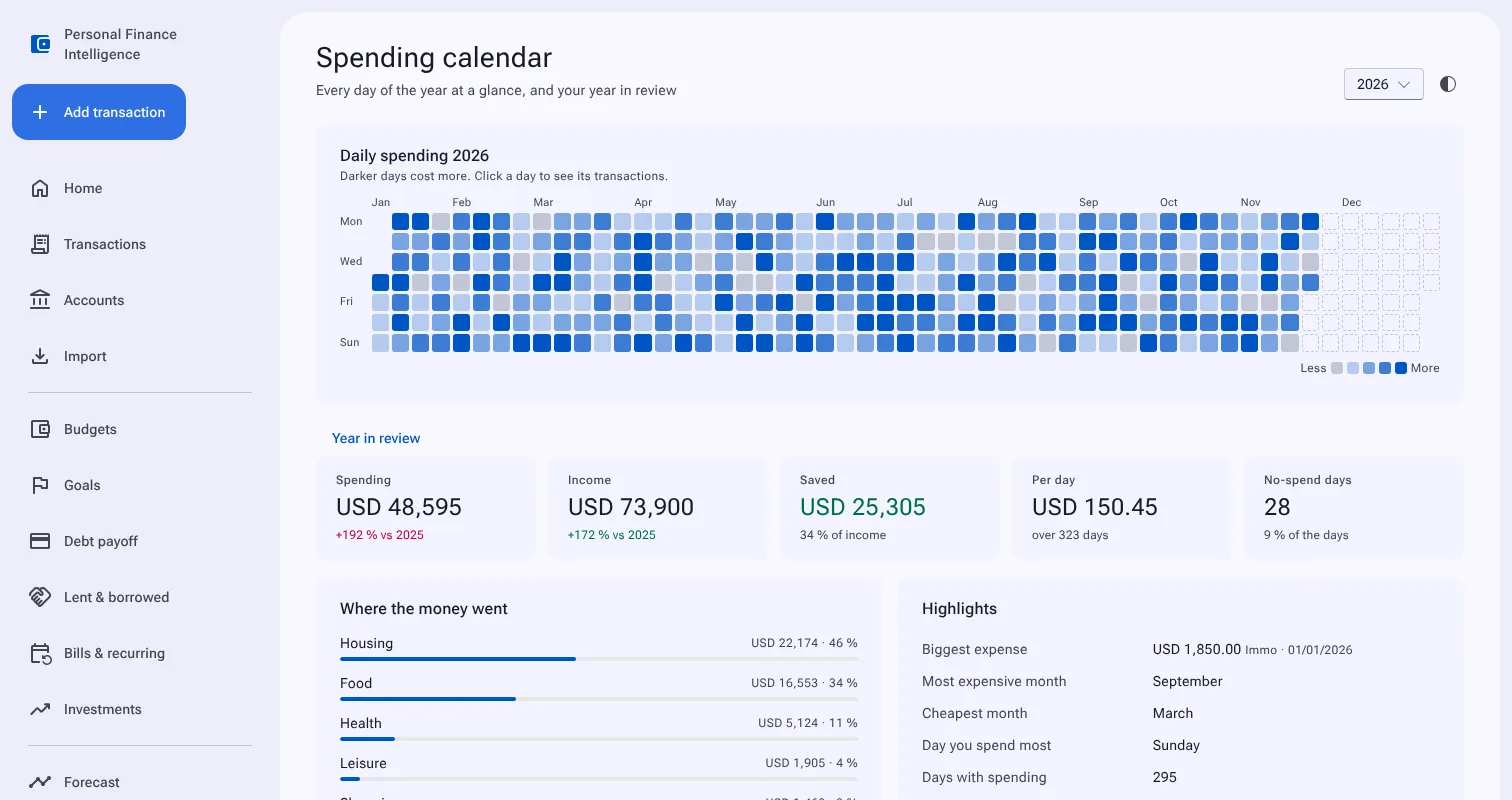
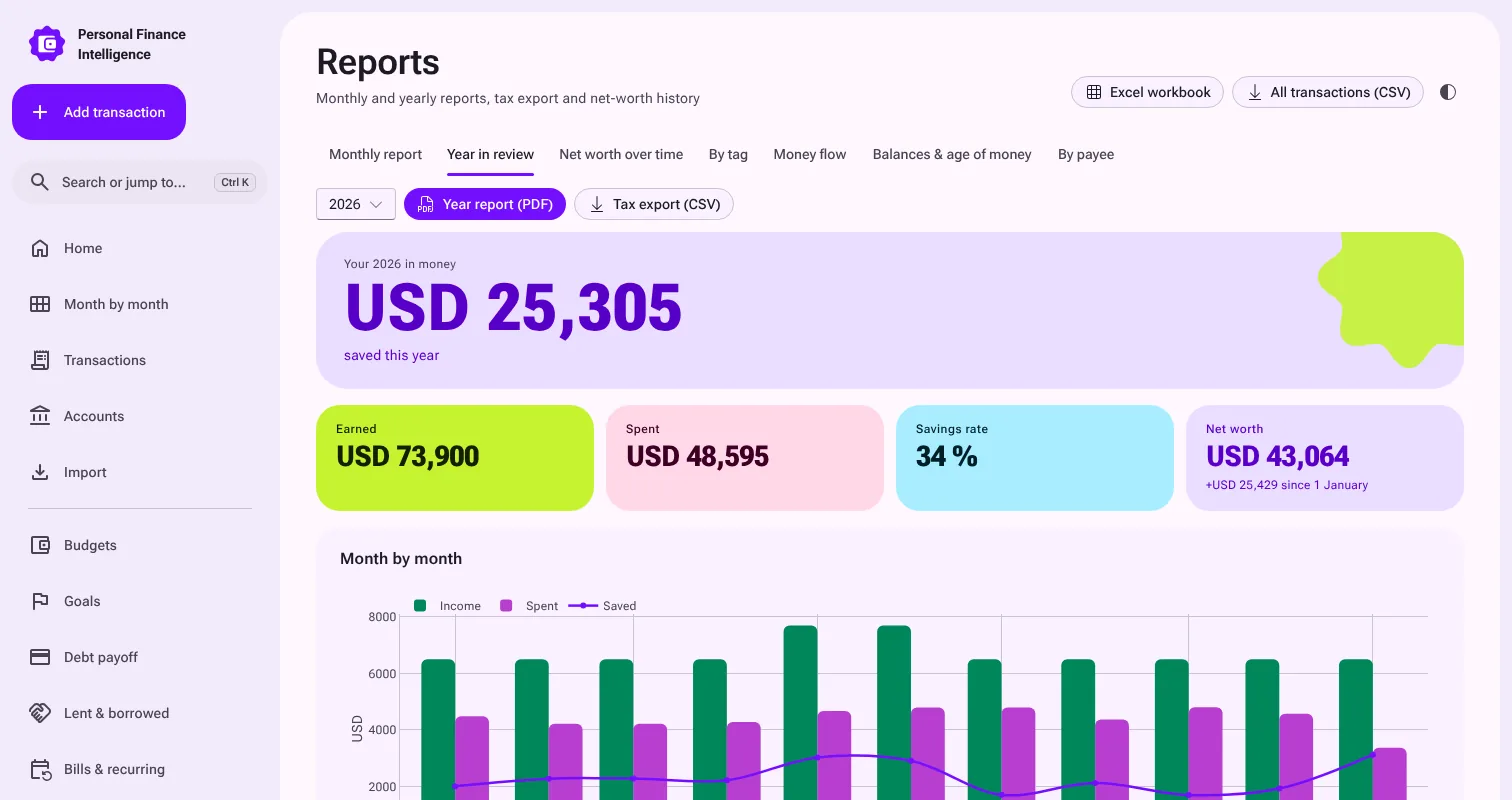
chore: version 1.0.0, Store notes and screenshots (en, fr, ar), privacy and design docs
Claude-Session: https://claude.ai/code/session_01MnZqb9jp3ucygUY9NmUqQ9

diff --git a/docs/index.html b/docs/index.html
@@ -25,7 +25,7 @@
   "description": "Offline budget planner and expense tracker for Windows with an Android app: bank statement import, envelope budgets, debt payoff planner, investments and cash-flow forecast. No account and no PFI server; optional encrypted sync through your own OneDrive or Google Drive.",
   "url": "https://mrblizo.github.io/personal-finance-intelligence/",
   "downloadUrl": "https://apps.microsoft.com/detail/9MZKW4H9F0J5",
-  "softwareVersion": "0.9.0",
+  "softwareVersion": "1.0.0",
   "license": "https://polyformproject.org/licenses/strict/1.0.0",
   "offers": { "@type": "Offer", "price": "0", "priceCurrency": "USD" },
   "author": { "@type": "Person", "name": "Ibrahim (MrBlizo)", "url": "https://github.com/MrBlizo" },
@@ -69,7 +69,7 @@
 <section class="hero-ms">
   <div class="wrap hero-grid">
     <div class="hero-text">
-      <p class="eyebrow">Personal Finance Intelligence 0.9.0</p>
+      <p class="eyebrow">Personal Finance Intelligence 1.0.0</p>
       <h1>Download PFI</h1>
       <p class="lead">The free budget app for Windows and Android. Plan every dollar, import your bank
         statements and see where your money goes, without an account and without a cloud server.</p>
@@ -82,7 +82,7 @@
     </div>
     <div class="hero-art">
       <img src="img/m3-home.webp" width="1512" height="800"
-        alt="PFI home: net worth with quick actions, income, expenses and charts">
+        alt="PFI home: net worth, income, expenses and charts in the violet Expressive look">
     </div>
   </div>
 </section>
@@ -100,7 +100,7 @@
         <h3>Budget with envelopes</h3><p>Assign your money to categories, see what is overspent or underfunded at a glance and fund your targets in one click.</p></article>
       <article class="fcard"><img src="img/m3-f-transactions.webp" width="1000" height="625" loading="lazy" alt="Transactions list with categories">
         <h3>Import any bank statement</h3><p>CSV, OFX/QFX, QIF and CAMT.053. Chase, Bank of America, Wells Fargo, Citi, Capital One, Amex and more are recognised automatically, and PFI learns your categories.</p></article>
-      <article class="fcard"><img src="img/m3-f-forecast.webp" width="1000" height="625" loading="lazy" alt="Cash-flow forecast with probability ranges">
+      <article class="fcard"><img src="img/m3-f-forecast.webp" width="1000" height="625" loading="lazy" alt="What if planner: a car purchase with and without, and a verdict">
         <h3>Plan ahead</h3><p>Cash-flow forecast from your own history, a debt payoff planner, investments with returns, and bills that never surprise you.</p></article>
     </div>
     <div class="new10" aria-label="New in PFI 1.0">
@@ -145,7 +145,7 @@
         <div class="qr-row">
           <img class="qr" src="img/qr-android.svg" width="120" height="120" alt="QR code to the PFI download page">
           <div><a class="btn primary" href="https://github.com/MrBlizo/personal-finance-intelligence/releases/latest">Download the APK</a>
-            <p class="alt">Scan with your phone's camera, then open <code>PFI-0.9.0.apk</code>.</p></div>
+            <p class="alt">Scan with your phone's camera, then open <code>PFI-1.0.0.apk</code>.</p></div>
         </div>
         <p class="alt">Automatic updates: add <code>github.com/MrBlizo/personal-finance-intelligence</code> to
           <a href="https://github.com/ImranR98/Obtainium">Obtainium</a>. <a href="guide.html#obtainium">How</a></p>
@@ -204,9 +204,9 @@
   <div class="wrap">
     <h2 class="center">See it in action</h2>
     <div class="gallery">
-      <figure><img src="img/m3-dark-mode.webp" width="1512" height="800" loading="lazy" alt="Budget in dark mode with a category selected"><figcaption>Dark mode</figcaption></figure>
+      <figure><img src="img/m3-dark-mode.webp" width="1512" height="800" loading="lazy" alt="Home in the neon dark mode"><figcaption>Neon dark mode</figcaption></figure>
       <figure><img src="img/m3-debt-payoff.webp" width="1512" height="800" loading="lazy" alt="Debt payoff planner comparing strategies"><figcaption>Debt payoff planner</figcaption></figure>
-      <figure><img src="img/m3-calendar.webp" width="1512" height="800" loading="lazy" alt="Spending calendar heatmap and year in review"><figcaption>Spending calendar and year in review</figcaption></figure>
+      <figure><img src="img/m3-calendar.webp" width="1512" height="800" loading="lazy" alt="Year in review with totals, months and a tax export"><figcaption>Year in review and tax export</figcaption></figure>
       <figure><img src="img/m3-investments.webp" width="1512" height="800" loading="lazy" alt="Investments with returns"><figcaption>Investments</figcaption></figure>
     </div>
   </div>

diff --git a/docs/privacy/index.html b/docs/privacy/index.html
@@ -30,7 +30,7 @@
   <article>
     <p class="crumbs"><a href="../">Home</a> › Privacy</p>
 <h1>Privacy policy</h1>
-<p><em>Personal Finance Intelligence (PFI) · last updated 17 November 2026</em></p>
+<p><em>Personal Finance Intelligence (PFI) · last updated 22 November 2026</em></p>
 <p>PFI is a desktop app (with an optional Android app) that keeps your
 financial data on your own devices.</p>
 <h2>What PFI stores</h2>
@@ -87,8 +87,17 @@ Disconnecting in Settings deletes the saved access on the PC. The phone app
 does not contact banks.</p>
 <h2>The Android app</h2>
 <p>The phone app stores your data in a private database on the phone. It uses
-the network only for the sync described above. It has no account, no
-analytics, no advertising and no telemetry.</p>
+the network only for the sync described above and for the update check
+below. It has no account, no analytics, no advertising and no telemetry.</p>
+<ul>
+<li><strong>Receipt scanning</strong> uses Google ML Kit's on-device text recognition. The
+  photo is read on the phone and is not kept or uploaded; the recognition
+  model is bundled with the app.</li>
+<li><strong>Statement import</strong> reads the CSV file you choose on the phone.</li>
+<li><strong>Notifications</strong> (bill reminders, over-budget alerts) are computed and shown
+  on the phone. Android asks for your permission first; you can switch both
+  off in Settings.</li>
+</ul>
 <h2>Network requests</h2>
 <p>PFI makes only these requests, and only for the purposes described:</p>
 <table>
@@ -125,6 +134,12 @@ analytics, no advertising and no telemetry.</p>
 <td>the coin id (e.g. <code>bitcoin</code>) and a currency code</td>
 <td>once a day for holdings with CoinGecko as price source, or on request</td>
 </tr>
+<tr>
+<td>Update check</td>
+<td>api.github.com (the latest PFI release)</td>
+<td>nothing beyond the request itself; only the version number is read</td>
+<td>once a day on the PC (not in the Microsoft Store version, which the Store updates) and on the phone, unless switched off in Settings</td>
+</tr>
 </tbody>
 </table>
 <p>These services receive your IP address as part of any internet request;
@@ -143,6 +158,9 @@ in your local database only and are no longer sent anywhere.)</p>
   the window was closed or a rating was submitted; your answer is stored on
   this PC.</li>
 <li><strong>Notifications</strong> (bill reminders): shown locally by Windows.</li>
+<li><strong>Receipt scanning</strong>: a receipt photo you drop on Quick add is read by
+  Windows' built-in offline text recognition (Windows.Media.Ocr). Nothing is
+  sent anywhere; the photo is stored with the transaction like any attachment.</li>
 </ul>
 <h2>Your control</h2>
 <p>You can export everything (Excel, CSV, backups), and you can delete all data

diff --git a/frontend/app/expressive.css b/frontend/app/expressive.css
@@ -458,7 +458,7 @@ ul.list > .list-row { display: flex; justify-content: space-between; align-items
   margin-bottom: 4px; text-align: start;
 }
 .nav-search:hover { background: var(--md-sys-color-surface-container-highest); }
-.nav-search .grow { flex: 1; }
+.nav-search .grow { flex: 1; min-width: 0; white-space: nowrap; overflow: hidden; text-overflow: ellipsis; }
 kbd {
   font: 600 11px/1 var(--font); padding: 3px 6px; border-radius: 6px; white-space: nowrap;
   background: var(--md-sys-color-surface-container-highest); color: var(--md-sys-color-on-surface-variant);

diff --git a/mobile/lib/config.dart b/mobile/lib/config.dart
@@ -16,4 +16,4 @@ const googleServerClientId = String.fromEnvironment('GOOGLE_SERVER_CLIENT_ID',
 
 const oauthScheme = 'io.github.mrblizo.pfi';
 const oauthRedirect = '$oauthScheme://auth';
-const appVersion = '0.9.0';
+const appVersion = '1.0.0';

diff --git a/backend/app/__init__.py b/backend/app/__init__.py
@@ -1,2 +1,2 @@
 """Personal Finance Intelligence backend."""
-__version__ = "0.9.0"
+__version__ = "1.0.0"

diff --git a/packaging/STORE-LISTING.md b/packaging/STORE-LISTING.md
@@ -39,31 +39,37 @@ account (Accounts › Add account) and a few transactions (Ctrl+N), or import
 any bank CSV file under Import. First start takes a few seconds while the
 private database is created."
 
-## What's new in 0.9.0 (paste into "What's new in this version")
+## What's new in 1.0.0 (paste into "What's new in this version")
 
 **English**
 
-Version 0.9.0
-• A new Material 3 design on PC, phone and website: one colour scheme, a navigation drawer with an Add transaction button, and a compact rail on narrow windows.
-• Any accent colour now recolours the whole app, not just the buttons.
-• Faster: net worth, envelopes, age of money and statement import open up to 18 times faster on large histories.
-• Clearer settings, budget filters and status colours, in light and dark mode and in Arabic.
+Version 1.0.0
+• New look: Material 3 Expressive in violet, with a neon dark mode.
+• Month by month: what you earned, spent, paid and saved each month.
+• Scan receipts: drop a photo on Quick add; amount, date and shop are read on your PC.
+• What if…? planner, financial independence calculator, year report PDF and tax export.
+• Move in from Cashew or Mint; Moroccan bank statements recognised.
+• Ctrl+K to jump anywhere, a setup assistant, Check my data and a review of sync conflicts.
 
 **Français**
 
-Version 0.9.0
-• Nouveau design Material 3 sur PC, téléphone et site web : une seule palette, un tiroir de navigation avec un bouton Ajouter une transaction, et une barre compacte sur les fenêtres étroites.
-• La couleur d'accent recolore maintenant toute l'application, pas seulement les boutons.
-• Plus rapide : valeur nette, enveloppes, âge de l'argent et import de relevés s'ouvrent jusqu'à 18 fois plus vite sur de longs historiques.
-• Paramètres, filtres de budget et couleurs d'état plus clairs, en mode clair et sombre et en arabe.
+Version 1.0.0
+• Nouveau look : Material 3 Expressive en violet, avec un mode sombre néon.
+• Mois par mois : ce que vous avez gagné, dépensé, payé et épargné chaque mois.
+• Scan de tickets : déposez une photo dans Ajout rapide ; montant, date et magasin sont lus sur votre PC.
+• Planificateur « Et si… ? », calcul de l'indépendance financière, rapport annuel PDF et export fiscal.
+• Import depuis Cashew ou Mint ; relevés des banques marocaines reconnus.
+• Ctrl+K pour aller partout, un assistant de démarrage, Vérifier mes données et la revue des conflits de synchro.
 
 **العربية**
 
-الإصدار 0.9.0
-• تصميم جديد بأسلوب Material 3 على الحاسوب والهاتف والموقع: نظام ألوان واحد، ودرج تنقّل مع زر إضافة معاملة، وشريط مدمج في النوافذ الضيقة.
-• لون التمييز يلوّن الآن التطبيق كله وليس الأزرار فقط.
-• أسرع: صافي الثروة والمغلفات وعمر المال واستيراد الكشوف تفتح أسرع بما يصل إلى 18 مرة مع السجلات الكبيرة.
-• إعدادات وفلاتر ميزانية وألوان حالة أوضح، في الوضعين الفاتح والداكن وبالعربية.
+الإصدار 1.0.0
+• مظهر جديد: Material 3 Expressive باللون البنفسجي مع وضع داكن نيون.
+• شهرًا بشهر: ما كسبته وأنفقته ودفعته وادّخرته كل شهر.
+• مسح الإيصالات: أسقط صورة في الإضافة السريعة فيُقرأ المبلغ والتاريخ والمتجر على حاسوبك.
+• مخطط «ماذا لو…؟» وحاسبة الاستقلال المالي وتقرير سنوي PDF وتصدير ضريبي.
+• الانتقال من Cashew أو Mint؛ والتعرّف على كشوف البنوك المغربية.
+• Ctrl+K للانتقال إلى أي مكان، ومساعد البدء، وفحص بياناتي، ومراجعة تعارضات المزامنة.
 
 ## 3. Store listing: English
 
@@ -187,4 +193,4 @@ placements, trésorerie, patrimoine, gestion d'argent
 1366×768 or larger, PNG. Use demo data (no real finances):
 Home, Transactions, Investments (Performance tab), Bills & recurring,
 Reports, Settings. Optional: one in Arabic and one in dark mode.
-The 0.9 (Material 3) set is in `packaging/store-screenshots-0.9/`.
+The 1.0 (Expressive) set is in `packaging/store-screenshots-1.0/{en,fr,ar}/`; upload each language to its own listing. The 0.9 set is in `packaging/store-screenshots-0.9/`.

diff --git a/README.md b/README.md
@@ -92,11 +92,25 @@ Shown with synthetic sample data (no real finances).
 - **Spending calendar:** a heatmap of every day's spending and a year in
   review (savings rate, no-spend days, biggest expense, top categories,
   change against the year before).
-- **Reports:** monthly PDF report, Excel workbook, CSV export, net-worth
-  history, money-flow (Sankey) diagram, balance history per account, age of
-  money and spending by payee.
-- **Import from YNAB:** reads a YNAB export (zip or CSV) with transfers,
-  splits and budget assignments, with a dry run first.
+- **Month by month (1.0):** what you earned, spent, paid (bills, card and
+  loan payments) and saved each month, compared with the month before, with
+  the spending pace and the biggest expenses. Also on the phone.
+- **Receipt scanning (1.0):** drop a photo on Quick add and Windows' offline
+  text recognition reads the total, date and shop; on the phone, ML Kit does
+  the same on the device. Nothing is uploaded.
+- **What if and financial independence (1.0):** try a purchase, a raise or a
+  bill change against the forecast and get a plain verdict; estimate when
+  your investments could pay for your spending.
+- **Reports:** monthly and yearly PDF reports, a tax export (CSV) by the
+  categories you mark, Excel workbook, CSV export, net-worth history,
+  money-flow (Sankey) diagram, balance history per account, age of money and
+  spending by payee.
+- **Import from YNAB, Cashew and Mint:** reads their exports with a dry run
+  first; YNAB also brings transfers, splits and budget assignments.
+- **Trust (1.0):** a first-run setup assistant, Check my data, a review of
+  items changed on two devices before they synced, a daily update check
+  (not in the Store version), and upgrade tests on databases from every
+  release since 0.4.
 - **Security & data:** optional app lock with Windows Hello; weekly automatic
   backups to a folder you choose (e.g. OneDrive), optionally encrypted with
   a password (AES-256); move to a new PC through sync.
@@ -104,9 +118,12 @@ Shown with synthetic sample data (no real finances).
   as the PC through a folder in your OneDrive, encrypted with your
   passphrase (no PFI server). See [mobile/README.md](mobile/README.md) and
   [design/sync-protocol.md](design/sync-protocol.md).
-- **Look:** light, dark or the same as Windows, switchable in every page
-  header; eleven accent colours; icons and colours per category; a Home page
-  whose cards you can reorder or hide.
+- **Look:** Material 3 Expressive in PFI violet, with a neon dark mode;
+  light, dark or the same as Windows, switchable in every page header;
+  eleven accent colours; icons and colours per category; a Home page whose
+  cards you can reorder or hide; Ctrl+K to jump to any page or action.
+- **Phone extras (1.0):** statement (CSV) import, bill reminders and
+  over-budget alerts, and an update check for the APK (or use Obtainium).
 
 ## Architecture
 
@@ -141,8 +158,8 @@ Double-click **`build.bat`**. It runs the backend tests, builds the screens,
 packages the backend, builds `PFI.exe`, smoke-tests the packaged app and
 creates:
 
-- `dist\PFI-Setup-0.9.0.exe`: installer for direct download;
-- `dist\PFI-0.9.0.0-x64.msix`: package for the Microsoft Store (fill in
+- `dist\PFI-Setup-1.0.0.exe`: installer for direct download;
+- `dist\PFI-1.0.0.0-x64.msix`: package for the Microsoft Store (fill in
   `packaging\store.json` with the identity from Partner Center first).
 
 Progress: `dist\build.log`; result: `dist\build-status.txt`. Options:

diff --git a/design/material-3.md b/design/material-3.md
@@ -1,11 +1,28 @@
 # Material 3 in PFI
 
 One Material 3 look for the Windows app, the phone app and the website.
+Since 1.0 it is the **Expressive** variant: violet, loud accents, heavy
+condensed numerals and shape masks in light mode, and a hand-tuned **Neon**
+synthwave scheme in dark mode.
 
 ## Tokens
 
-- **Seed:** `#2F6FE4` (PFI blue). **Scheme:** `SchemeFidelity`, standard
-  contrast, from `@material/material-color-utilities` 0.4.0.
+- **Seed:** `#8E5CF7` (PFI violet). **Light scheme:** `SchemeVibrant`,
+  standard contrast, from `@material/material-color-utilities` 0.4.0.
+  (Before 1.0: `#2F6FE4` with `SchemeFidelity`.)
+- **Dark scheme:** with the PFI violet seed, the hand-tuned `NEON` palette in
+  `scripts/m3/gen-tokens.mjs` (deep indigo surfaces, pink primary
+  `#FF5AD9`, violet secondary, cyan tertiary). The root gets `data-neon="1"`,
+  which turns on glows, the synthwave sun and the grid in
+  `frontend/app/expressive.css`. Other accents use `SchemeVibrant` dark. On
+  the phone, `buildTheme` uses `neonDarkScheme` and `context.neon`.
+- **Accents:** lime `#C6F432`, pink `#FF5AB4` and cyan `#24D3F2`, with
+  containers, deliberately not harmonized (the `AccentColors` extension on
+  the phone, `--md-sys-color-{lime,pink,cyan}-*` on the PC and the website).
+  Used for headline tiles: Earned (lime), Spent (pink), Savings rate (cyan),
+  Net (violet).
+- **Contrast audit:** the generator checks every text/background role pair
+  at 4.5:1 and stops with an error if one fails.
 - **Source of truth:** `design/m3-tokens.json`. Regenerate everything with:
 
   ```
@@ -21,13 +38,19 @@ One Material 3 look for the Windows app, the phone app and the website.
 - **Other accents:** a different accent chosen in Settings becomes a new
   seed. On the PC it is applied at run time by `frontend/lib/m3.ts`, which
   uses the same algorithm. On the phone it goes through
-  `ColorScheme.fromSeed(dynamicSchemeVariant: fidelity)`.
+  `ColorScheme.fromSeed(dynamicSchemeVariant: vibrant)`.
 - **Icons:** Material Symbols Rounded, subset to the glyphs listed in
   `frontend/components/icons.ts`. After adding an icon there, run
   `python scripts/m3/subset-icons.py`. The subset is 15 KB; the full font
   is about 5 MB.
 - **Type:** Roboto Flex, with Noto Sans Arabic for Arabic. The website
-  self-hosts Roboto Flex in `docs/fonts/`.
+  self-hosts Roboto Flex in `docs/fonts/`. Headline money figures use the
+  width axis (`font-stretch: 62%`, weight 800) for condensed display
+  numerals.
+- **Shapes:** M3 Expressive masks (cookie, sunny, clover, flower, burst) in
+  `frontend/app/shapes.css`, used for category icons and hero decorations.
+- **Motion:** spring easing `cubic-bezier(.34, 1.56, .64, 1)` for entrances,
+  the FAB and the month strip; everything respects `prefers-reduced-motion`.
 
 | Shape token | Value | Used for |
 |---|---|---|

diff --git a/PRIVACY.md b/PRIVACY.md
@@ -1,6 +1,6 @@
 # Privacy policy
 
-*Personal Finance Intelligence (PFI) · last updated 16 November 2026*
+*Personal Finance Intelligence (PFI) · last updated 22 November 2026*
 
 PFI is a desktop app (with an optional Android app) that keeps your
 financial data on your own devices.
@@ -68,8 +68,16 @@ does not contact banks.
 ## The Android app
 
 The phone app stores your data in a private database on the phone. It uses
-the network only for the sync described above. It has no account, no
-analytics, no advertising and no telemetry.
+the network only for the sync described above and for the update check
+below. It has no account, no analytics, no advertising and no telemetry.
+
+- **Receipt scanning** uses Google ML Kit's on-device text recognition. The
+  photo is read on the phone and is not kept or uploaded; the recognition
+  model is bundled with the app.
+- **Statement import** reads the CSV file you choose on the phone.
+- **Notifications** (bill reminders, over-budget alerts) are computed and shown
+  on the phone. Android asks for your permission first; you can switch both
+  off in Settings.
 
 ## Network requests
 
@@ -81,6 +89,7 @@ PFI makes only these requests, and only for the purposes described:
 | Stock, ETF & fund prices | query1.finance.yahoo.com | the symbol you entered (e.g. `VWRL.L`) and a date range | once a day for holdings with Yahoo Finance as price source, or on request |
 | Bank sync (optional) | SimpleFIN Bridge (bridge.simplefin.org) or api.enablebanking.com | your saved access or signed request, and a date range | every 6 hours while PFI runs, if you linked accounts |
 | Crypto prices | api.coingecko.com | the coin id (e.g. `bitcoin`) and a currency code | once a day for holdings with CoinGecko as price source, or on request |
+| Update check | api.github.com (the latest PFI release) | nothing beyond the request itself; only the version number is read | once a day on the PC (not in the Microsoft Store version, which the Store updates) and on the phone, unless switched off in Settings |
 
 These services receive your IP address as part of any internet request;
 their own privacy policies apply. You can switch both automatic updates off
@@ -100,6 +109,9 @@ in your local database only and are no longer sent anywhere.)
   the window was closed or a rating was submitted; your answer is stored on
   this PC.
 - **Notifications** (bill reminders): shown locally by Windows.
+- **Receipt scanning**: a receipt photo you drop on Quick add is read by
+  Windows' built-in offline text recognition (Windows.Media.Ocr). Nothing is
+  sent anywhere; the photo is stored with the transaction like any attachment.
 
 ## Your control
 
